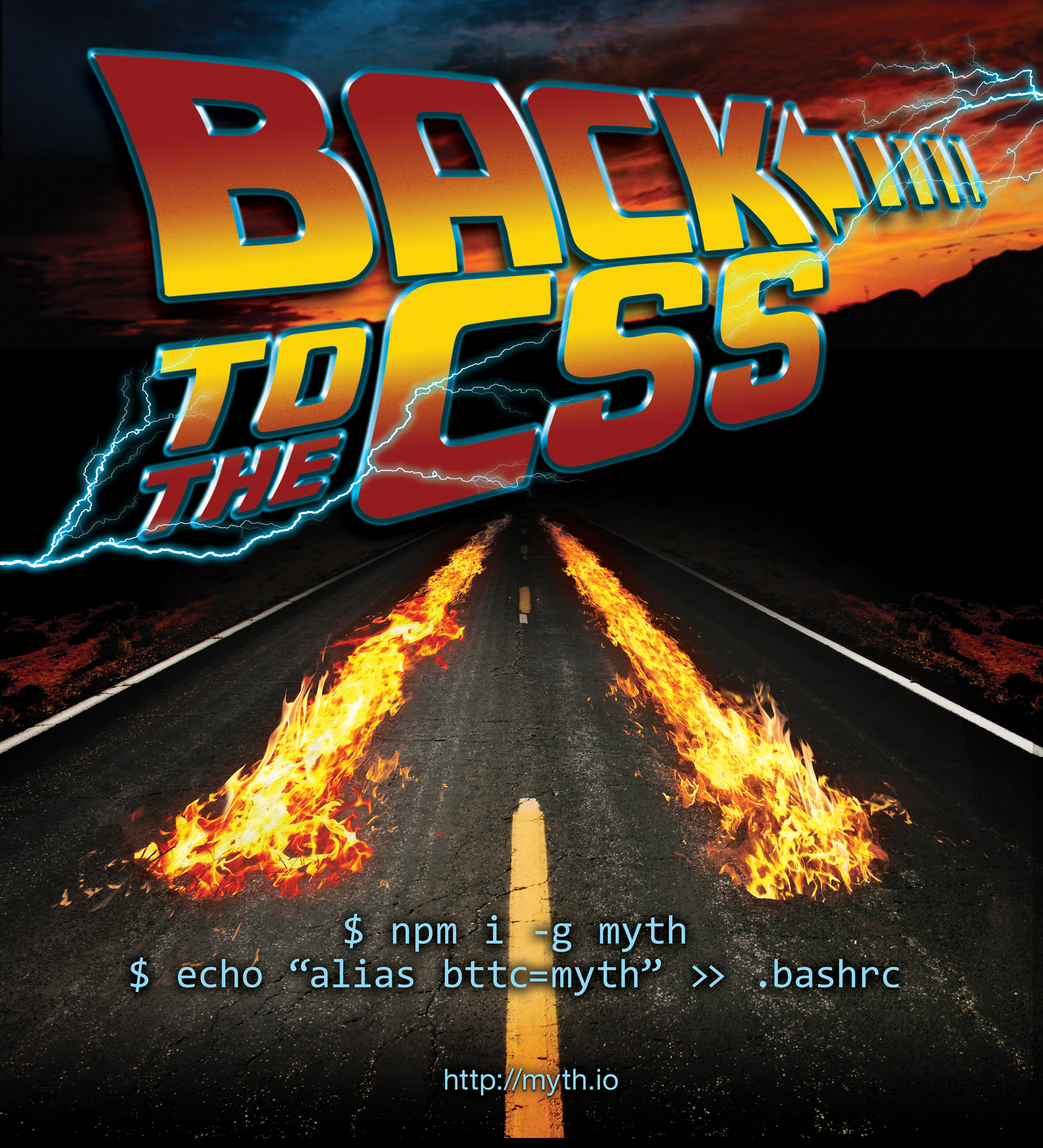
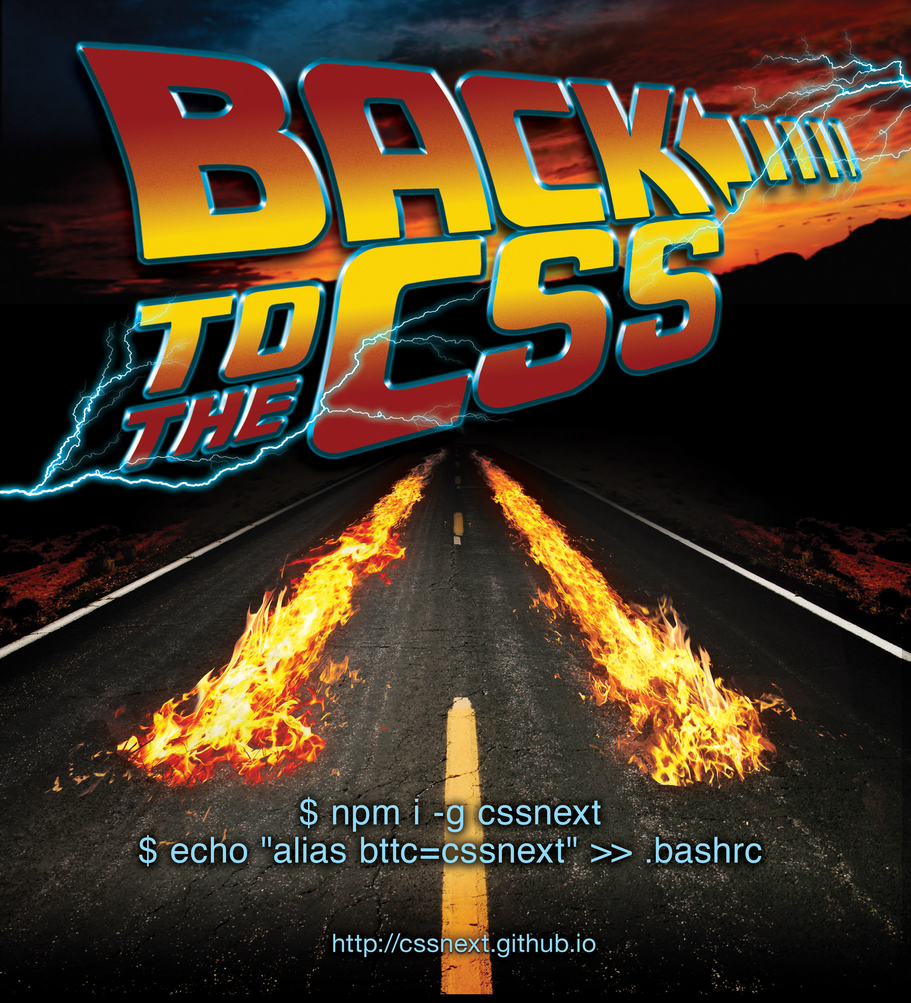
Update to cssnext ;)

Changed region(s): [[0.1229, 0.7741, 0.8603, 0.867], [0.3687, 0.9289, 0.6453, 0.9599]]

diff --git a/README.md b/README.md
@@ -1,14 +1,13 @@
 # Back to the CSS
 
-> Write CSS like the specs. Well almost.
+> Use the best of CSS syntax, today.
 
 ![Back to the CSS](bttc.jpg)
 
 ```
-$ npm install -g myth
-$ echo "alias bttc=myth" >> .bashrc
+$ npm install -g cssnext
+$ echo "alias bttc=cssnext" >> .bashrc
 $ bttc futureproof.css output.css
 ```
 
-
-More on [myth.io](http://myth.io) & [myth README](https://github.com/segmentio/myth#readme)
+More on [cssnext.io](http://cssnext.github.io) & [cssnext README](https://github.com/cssnext/cssnext#readme)
